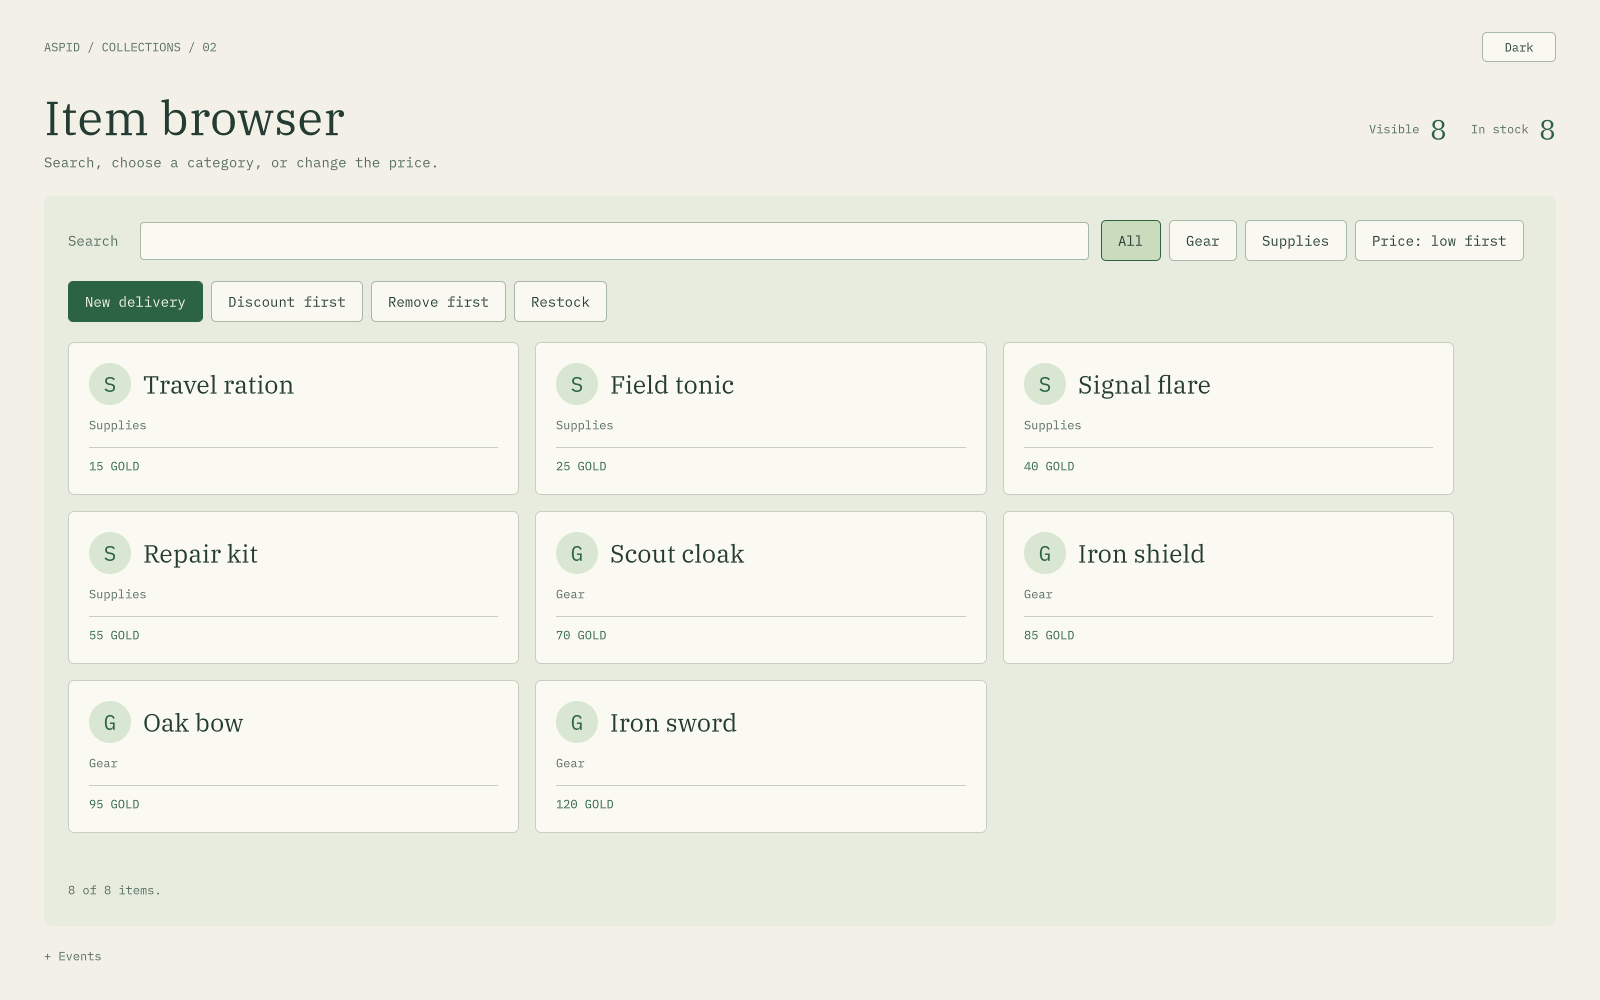
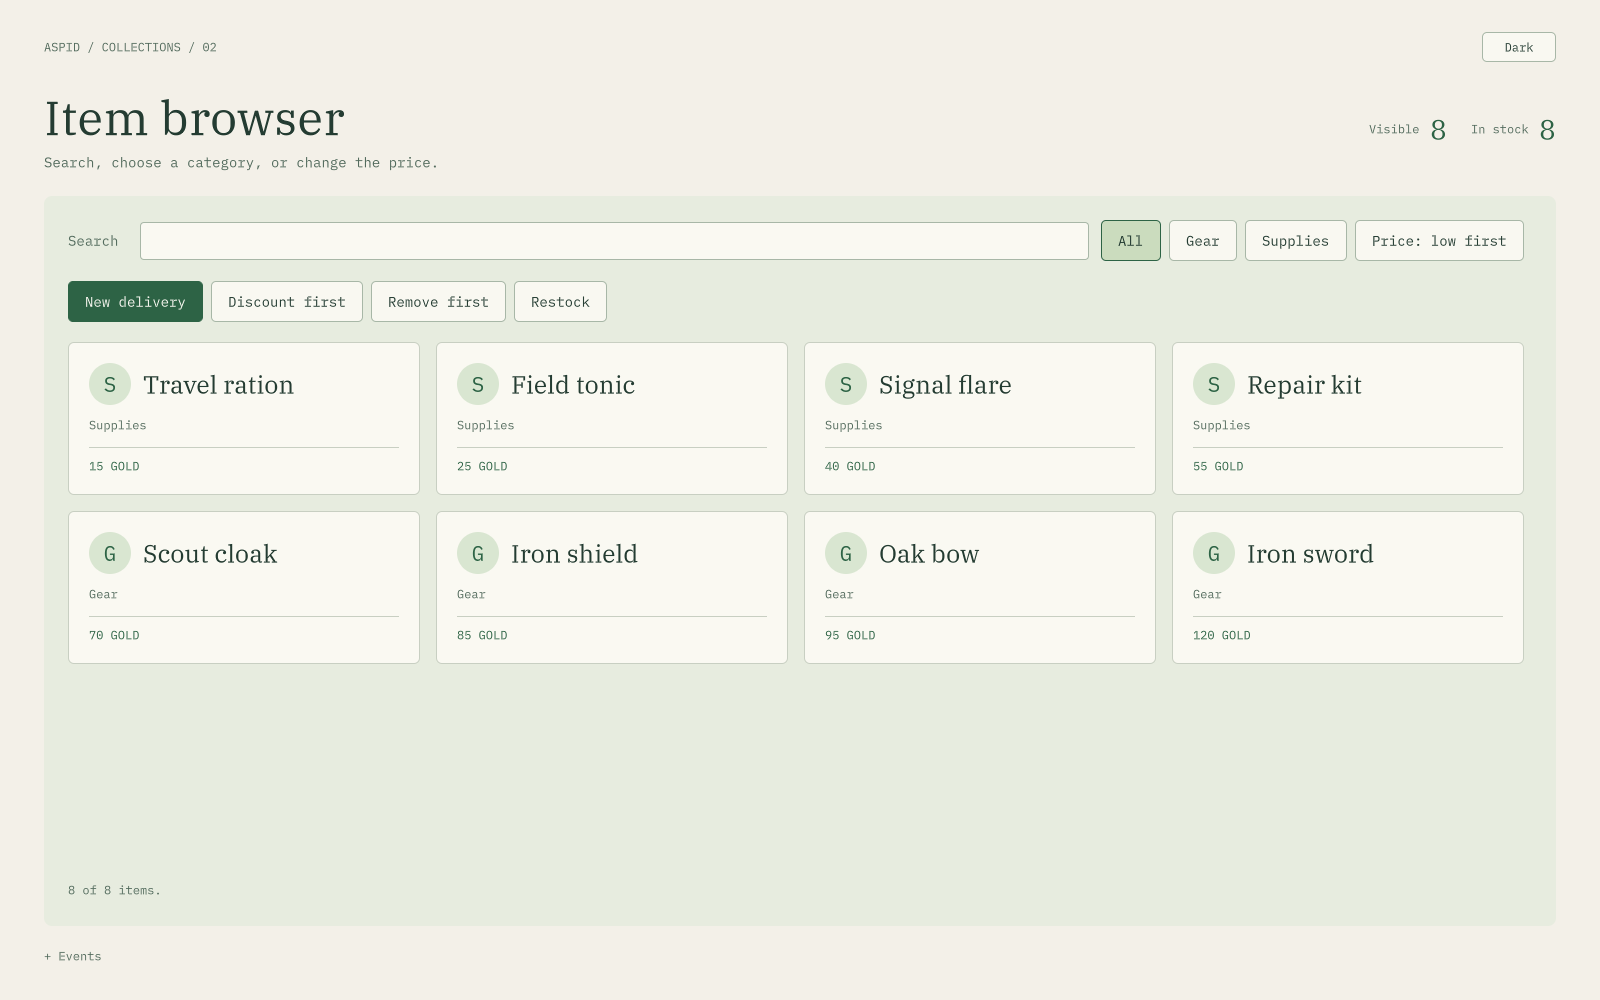
fix: make sample cards fill each row
- Grow cards equally across rows and wrap from a flexible basis.
- Refresh light and dark Unity previews for the sample guides.

diff --git a/CHANGELOG.md b/CHANGELOG.md
@@ -11,7 +11,7 @@ and this project adheres to [Semantic Versioning](https://semver.org/spec/v2.0.0
 - Bilingual Docusaurus documentation website in `Website/`, with the Aspid.FastTools theme, local search, interactive collection illustration, generated runtime API reference, sample walkthroughs and previews, and a GitHub Pages workflow.
 
 ### Changed
-- Simplified the five sample interfaces, moved diagnostics into a collapsed Events panel, and added switchable light/dark palettes with paired website previews.
+- Simplified the five sample interfaces with flexible full-width card rows, moved diagnostics into a collapsed Events panel, and added switchable light/dark palettes with paired website previews.
 - Replaced the introductory samples with five self-contained interactive UI Toolkit scenes: Squad Roster, Item Browser, Crafting Queue, Match Scoreboard, and Zone Occupancy. Each includes local fonts, live events and metrics, a guided exercise, and a walkthrough. Together they demonstrate all five collection types, synchronization ownership, chained filtering, batch notifications, and disposable event subscriptions.
 
 ## [1.1.1] — 2026-11-06
